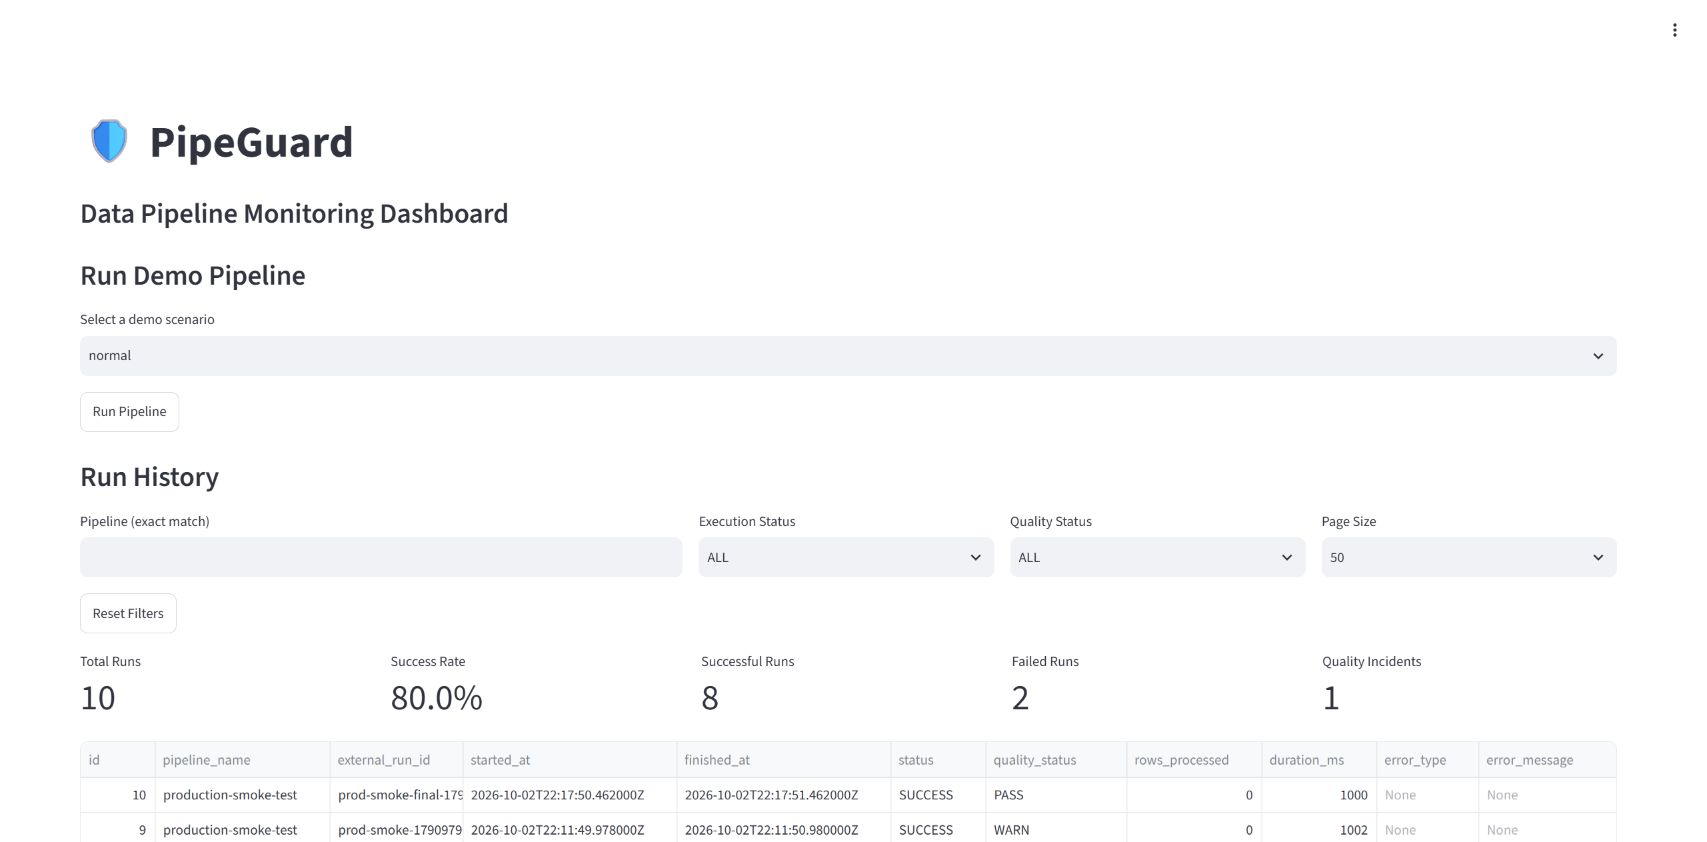
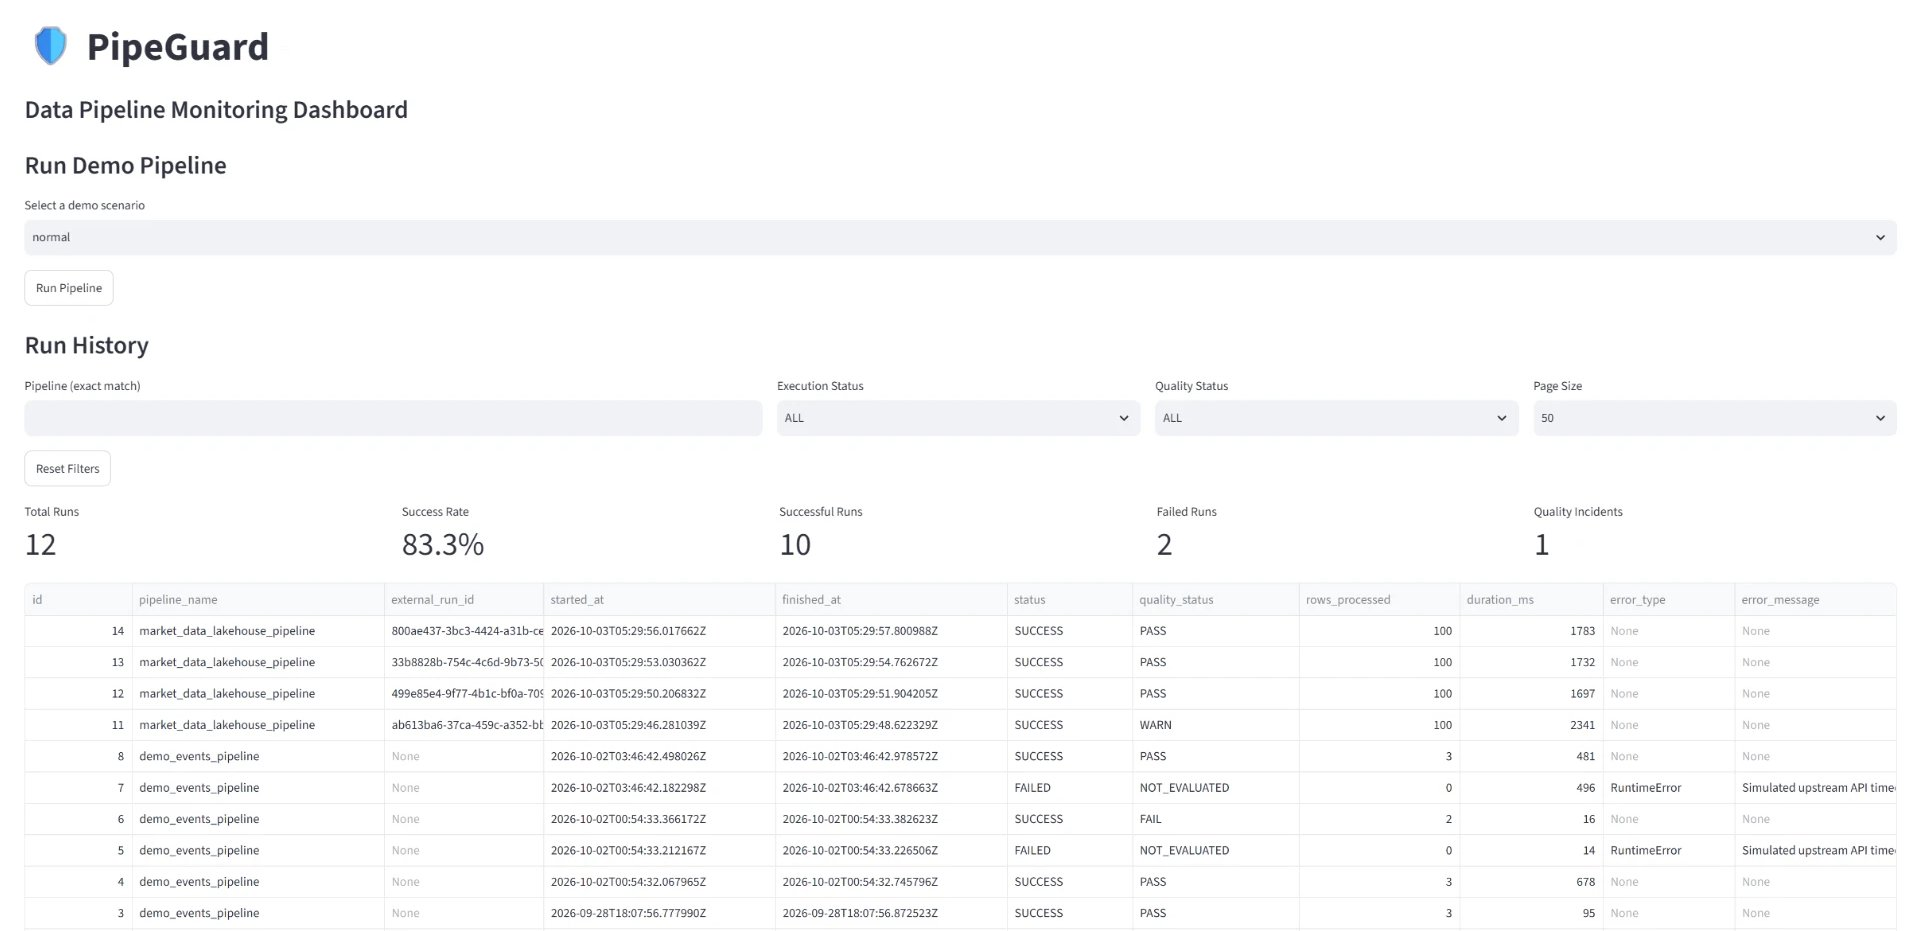
docs: show the real pipeline that now reports here
de-lakehouse-pipeline reports each run of its CLI orchestrator to PipeGuard, so
the README can state the relationship as fact rather than intent.

The dashboard screenshot is retaken against production data: four real runs of
market_data_lakehouse_pipeline at 100 rows each -- the first marked WARN for
lacking history, the next three PASS against it -- above demo runs that show an
execution failure and a quality incident. The old screenshot showed only smoke
test runs with zero rows, which have been removed from production.

diff --git a/README.md b/README.md
@@ -5,12 +5,10 @@ authenticated API. It keeps their history, catches what a single run cannot see 
 itself — such as a row count that collapsed compared with previous runs — and explains each
 incident in terms of the check that failed.
 
-<!-- After the de-lakehouse integration ships, replace the next sentence with:
-     "It is the monitoring layer for [de-lakehouse-pipeline](...), a market-data warehouse
-     that reports every orchestrated run here." -->
-It is designed to receive runs from
+It is the monitoring layer for
 [de-lakehouse-pipeline](https://github.com/Ericliu-eng/de-lakehouse-pipeline), a market-data
-warehouse. A bundled synthetic pipeline makes every scenario reproducible on its own.
+warehouse: each run of its CLI orchestrator reports here with its row count and quality-check
+results. A bundled synthetic pipeline makes every scenario reproducible on its own.
 
 [![CI](https://github.com/Ericliu-eng/pipeguard/actions/workflows/ci.yml/badge.svg)](https://github.com/Ericliu-eng/pipeguard/actions/workflows/ci.yml)
 · Tested on SQLite and PostgreSQL 18

diff --git a/docs/releases/v1.0.0.md b/docs/releases/v1.0.0.md
@@ -9,6 +9,8 @@ and provide deterministic incident guidance.
 
 - Report real pipeline executions through authenticated `POST /runs` requests, including
   timing, row counts, errors, and pipeline-evaluated quality checks.
+  [de-lakehouse-pipeline](https://github.com/Ericliu-eng/de-lakehouse-pipeline) is the first
+  producer: each run of its CLI orchestrator reports here.
 - Retry reports safely with a per-pipeline `external_run_id`: identical retries return the
   existing run with `200`, while conflicting payloads return `409`.
 - Keep execution outcome and data quality separate through `status` and `quality_status`.
